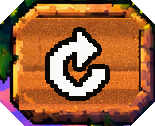
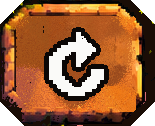
v3.8.2: Fossil Finders flip badge uses the exact $1 box (not mirrored)
Owner: same box and font as the price badge, with the flip arrow. The badge is now
the $1 box itself (lettering area refilled with its own wood), flip arrow in the
same white-with-black-outline style, top-right corner.

Claude-Session: https://claude.ai/code/session_01KmGxi5FWQEcSyM2TCx745j

diff --git a/fossil-finders.html b/fossil-finders.html
@@ -37,7 +37,7 @@ html.embedded body { padding: 0; }
 .ticket > img { position: absolute; inset: 0; width: 100%; height: 100%; display: block; pointer-events: none; }
 .ticket .back { display: none; }
 .ticket.flipped .front, .ticket.flipped .cells, .ticket.flipped .flipbadge { display: none; }
-.flipbadge { position: absolute; left: 83.789%; top: 0.781%; width: 15.137%; height: 8.203%; padding: 0; border: 0; background: url(fossil-finders-flip.png) center / 100% 100% no-repeat; cursor: pointer; z-index: 5; min-height: 0; border-radius: 12%; }
+.flipbadge { position: absolute; left: 83.789%; top: 0.781%; width: 15.137%; height: 8.203%; padding: 0; border: 0; background: url(fossil-finders-flip.png?v=382) center / 100% 100% no-repeat; cursor: pointer; z-index: 5; min-height: 0; border-radius: 12%; }
 .flipbadge:focus-visible { outline: 2px solid #fff; outline-offset: 2px; }
 .ticket.flipped .back { display: block; }
 

diff --git a/index.html b/index.html
@@ -622,7 +622,7 @@ body.setup-open{overflow:hidden}.card-top .ticket-gear+h3{margin-right:auto}
 <div class="wrap">
 <header class="header">
 <div class="brand"><div class="brand-mark">$</div><div><small>QUILL PRODUCTIONS</small><h1>Cardboard to Cash</h1></div></div>
-<div class="header-right"><span class="version-badge" title="Lucky Buck simulator version">v3.8.1</span><span class="save" id="saveStatus">Loading…</span></div>
+<div class="header-right"><span class="version-badge" title="Lucky Buck simulator version">v3.8.2</span><span class="save" id="saveStatus">Loading…</span></div>
 </header>
 
 <section class="hero">

diff --git a/CLAUDE.md b/CLAUDE.md
@@ -2,4 +2,4 @@
 
 The full project instructions (version numbering, current baseline), design notes, release notes, ticket recipe and build tools are kept **privately** in the owner's Project Quill repository under `lucky-buck-notes/`. Read `lucky-buck-notes/CLAUDE.md` there before changing anything here, and save new notes there, not in this public project.
 
-Current version: v3.8.1. This public project should hold only the playable files (`index.html`, `ticket-1.0.0.html`, `playtest.html`, `fossil-finders.html` with its `fossil-finders-*.png` art, and older preview pages), plus `README.md`, `COPYRIGHT.md` and this file.
+Current version: v3.8.2. This public project should hold only the playable files (`index.html`, `ticket-1.0.0.html`, `playtest.html`, `fossil-finders.html` with its `fossil-finders-*.png` art, and older preview pages), plus `README.md`, `COPYRIGHT.md` and this file.
